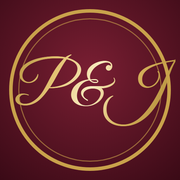
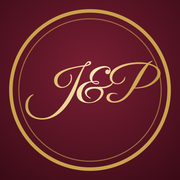
Update invitation content for groom's side (Jai weds Pari)

Changed region(s): [[0.0833, 0.3056, 0.9722, 0.7222], [0.1944, 0.4167, 0.2222, 0.4444]]

diff --git a/index.html b/index.html
@@ -3,7 +3,7 @@
 <head>
   <meta charset="utf-8">
   <meta name="viewport" content="width=device-width, initial-scale=1, viewport-fit=cover">
-  <title>Pari weds Jai | 26.11.2026</title>
+  <title>Jai weds Pari | 26.11.2026</title>
   <meta name="description" content="You are cordially invited to our wedding">
   <meta name="theme-color" content="#4a0e1a">
 
@@ -12,19 +12,19 @@
        https://YOUR-USERNAME.github.io/YOUR-REPO/assets/og-image.jpg  (WhatsApp ignores relative paths)
        and set og:url to the site address. See README.md. -->
   <meta property="og:type" content="website">
-  <meta property="og:site_name" content="Pari weds Jai">
-  <meta property="og:title" content="Pari weds Jai | 26.11.2026">
+  <meta property="og:site_name" content="Jai weds Pari">
+  <meta property="og:title" content="Jai weds Pari | 26.11.2026">
   <meta property="og:description" content="You are cordially invited to our wedding">
-  <meta property="og:image" content="https://nikhilahuja-bright.github.io/PARI-X-JAI-WEDDING-INVITATION/assets/og-image.jpg">
+  <meta property="og:image" content="https://nikhilahuja-bright.github.io/PARI-X-JAI-WEDDING-INVITATION/assets/og-image.jpg?v=2">
   <meta property="og:image:type" content="image/jpeg">
   <meta property="og:image:width" content="1200">
   <meta property="og:image:height" content="630">
-  <meta property="og:image:alt" content="Pari weds Jai — 26th November 2026">
+  <meta property="og:image:alt" content="Jai weds Pari — 26th November 2026">
   <meta property="og:url" content="https://nikhilahuja-bright.github.io/PARI-X-JAI-WEDDING-INVITATION/">
   <meta name="twitter:card" content="summary_large_image">
-  <meta name="twitter:title" content="Pari weds Jai | 26.11.2026">
+  <meta name="twitter:title" content="Jai weds Pari | 26.11.2026">
   <meta name="twitter:description" content="You are cordially invited to our wedding">
-  <meta name="twitter:image" content="https://nikhilahuja-bright.github.io/PARI-X-JAI-WEDDING-INVITATION/assets/og-image.jpg">
+  <meta name="twitter:image" content="https://nikhilahuja-bright.github.io/PARI-X-JAI-WEDDING-INVITATION/assets/og-image.jpg?v=2">
 
   <link rel="icon" type="image/png" sizes="32x32" href="assets/favicon-32.png">
   <link rel="icon" type="image/png" sizes="192x192" href="assets/favicon-192.png">
@@ -122,17 +122,31 @@
       </g>
     </symbol>
 
-    <symbol id="ic-doli" viewBox="0 0 48 48">
+    <symbol id="ic-diya" viewBox="0 0 48 48">
       <g fill="none" stroke="currentColor" stroke-width="2" stroke-linecap="round" stroke-linejoin="round">
-        <path d="M12 21c2-9 22-9 24 0"/>
-        <path d="M24 12V8"/>
-        <path d="M11 21h26v15H11z"/>
-        <path d="M17 36v-8c0-5 14-5 14 0v8" stroke-width="1.5"/>
-        <path d="M2 26h44"/>
-        <path d="M14 36v4M34 36v4"/>
+        <path d="M24 5c4 6 4 11 0 14-4-3-4-8 0-14z"/>
+        <path d="M7 25h34c-2 8-8 12-17 12S9 33 7 25z"/>
+        <path d="M24 37v4M17 43h14"/>
       </g>
-      <path d="M41 5l1 2.5 2.5 1-2.5 1L41 12l-1-2.5-2.5-1 2.5-1zM7 8l.7 1.6 1.6.7-1.6.7L7 12.6l-.7-1.6-1.6-.7 1.6-.7z" fill="currentColor"/>
-      <circle cx="24" cy="6.5" r="1.6" fill="currentColor"/>
+    </symbol>
+
+    <symbol id="ic-cocktail" viewBox="0 0 48 48">
+      <g fill="none" stroke="currentColor" stroke-width="2" stroke-linecap="round" stroke-linejoin="round">
+        <path d="M9 9h30L24 25z"/>
+        <path d="M24 25v15M16 41h16"/>
+        <path d="M31 3l-5 12"/>
+      </g>
+      <circle cx="20" cy="13" r="2" fill="currentColor"/>
+    </symbol>
+
+    <symbol id="ic-sehra" viewBox="0 0 48 48">
+      <g fill="none" stroke="currentColor" stroke-width="2" stroke-linecap="round" stroke-linejoin="round">
+        <path d="M8 29c0-14 32-14 32 0z"/>
+        <path d="M11 23c8-3 18-3 26 0" stroke-width="1.4"/>
+        <path d="M24 17c-2-7 1-11 6-14 0 6-2 10-6 14z"/>
+        <path d="M12 29v10M18 29v13M24 29v14M30 29v13M36 29v10" stroke-width="1.3" stroke-dasharray="2 2.5"/>
+      </g>
+      <circle cx="24" cy="18.5" r="2" fill="currentColor"/>
     </symbol>
 
     <symbol id="ic-calendar" viewBox="0 0 24 24">
@@ -169,8 +183,9 @@
     <svg class="intro-corner br" aria-hidden="true"><use href="#orn-corner"/></svg>
 
     <div class="intro-inner">
-      <p class="eyebrow intro-kicker" data-c="couple"></p>
+      <p class="eyebrow intro-kicker" data-c="intro.kicker"></p>
       <p id="intro-title" class="intro-title foil">You're Invited</p>
+      <p class="mantra intro-kicker" data-c="intro.couple"></p>
 
       <button id="envelope" class="envelope" type="button" aria-label="Open your invitation">
         <span class="env-back" aria-hidden="true"></span>
@@ -195,6 +210,7 @@
       </button>
 
       <p class="intro-hint">Tap to open your invitation</p>
+      <p class="closing-text" data-c="intro.from"></p>
     </div>
   </div>
 
@@ -213,9 +229,9 @@
         <svg class="ganesha a1" role="img" aria-label="Lord Ganesha"><use href="#ic-ganesha"/></svg>
         <p class="mantra a1" data-c="mantra"></p>
         <h1 id="hero-names" class="names">
-          <span class="name foil-script a2" data-c="bride.name"></span>
+          <span class="name foil-script a2" data-c="groom.name"></span>
           <span class="weds a3"><span class="weds-line" aria-hidden="true"></span><span class="weds-word">weds</span><span class="weds-line r" aria-hidden="true"></span></span>
-          <span class="name foil-script a4" data-c="groom.name"></span>
+          <span class="name foil-script a4" data-c="bride.name"></span>
         </h1>
         <svg class="divider a5" aria-hidden="true"><use href="#orn-divider"/></svg>
         <p class="eyebrow a5">Save the Date</p>
@@ -236,17 +252,24 @@
         <p class="lead" data-c="invitation.blessing"></p>
 
         <div class="person">
-          <h2 class="person-name" data-c="bride.name"></h2>
-          <p class="parents"><span data-c="bride.relation"></span> <span data-c="bride.parents"></span></p>
+          <h3 class="venue-name" data-c="invitation.hosts"></h3>
+        </div>
+        <div class="person">
+          <p class="lead" data-c="invitation.request"></p>
+        </div>
+        <div class="person">
+          <h2 class="person-name" data-c="groom.fullName"></h2>
         </div>
         <p class="with"><span>with</span></p>
         <div class="person">
-          <h2 class="person-name" data-c="groom.name"></h2>
-          <p class="parents"><span data-c="groom.relation"></span> <span data-c="groom.parents"></span></p>
+          <h2 class="person-name" data-c="bride.fullName"></h2>
+          <p class="parents" data-c="bride.parents"></p>
         </div>
 
         <svg class="divider dark" aria-hidden="true"><use href="#orn-divider"/></svg>
-        <p class="lead small" data-c="invitation.closing"></p>
+        <h3 class="venue-name" data-c="residence.hosts"></h3>
+        <p class="venue-addr" data-c="residence.address"></p>
+        <p class="venue-addr" id="phones"></p>
       </div>
     </section>
 
@@ -281,8 +304,8 @@
 
     <!-- ===== 6. EVENTS ===== -->
     <section class="sec" aria-labelledby="ev-title">
-      <p class="eyebrow reveal"><span data-c="dateDay"></span> · <span data-c="dateLong"></span></p>
-      <h2 id="ev-title" class="sec-title foil-script reveal">The Celebrations</h2>
+      <p class="eyebrow reveal" data-c="eventsEyebrow"></p>
+      <h2 id="ev-title" class="sec-title foil-script reveal" data-c="eventsTitle"></h2>
       <svg class="divider reveal" aria-hidden="true"><use href="#orn-divider"/></svg>
       <ol class="timeline" id="timeline"></ol>
       <a class="btn reveal" id="calBtn" href="#" target="_blank" rel="noopener">
@@ -316,6 +339,7 @@
       <svg class="lotus-lg reveal" aria-hidden="true"><use href="#orn-lotus"/></svg>
       <h2 id="closing-title" class="sec-title foil-script reveal" data-c="closing.title"></h2>
       <p class="closing-text reveal" data-c="closing.text"></p>
+      <p class="closing-text reveal" data-c="closing.kids"></p>
     </section>
 
     <!-- ===== 9. RSVP ===== -->

diff --git a/assets/script.js b/assets/script.js
@@ -3,60 +3,78 @@
    All names, dates, venue details and links live in CONFIG.
    ========================================================== */
 const CONFIG = {
-  bride: { name: "Pari", relation: "D/o", parents: "Smt. Savita & Sh. Somnath Sapra" },
-  groom: { name: "Jai",  relation: "S/o", parents: "Smt. Kiran & Sh. Sanjay Khurana" },
-  couple: "Pari & Jai",
-  monogram: "P & J",
-  hashtag: "#PariWedsJai",
+  groom: { name: "Jai",  fullName: "Jai Khurana" },
+  bride: { name: "Pari", fullName: "Pari Sapra", parents: "(D/o Smt. Savita & Sh. Somnath Sapra of Rohtak)" },
+  couple: "Jai & Pari",
+  monogram: "J & P",
+  hashtag: "#JaiWedsPari",
   mantra: "|| Shri Ganeshaya Namah ||",
+
+  intro: {
+    kicker: "Wedding Invitation",
+    couple: "Jai Khurana with Pari Sapra",
+    from: "A Cordial Invitation from: Smt. Kiran Khurana & Sh. Sanjay Khurana"
+  },
 
   // Dates
   dateShort: "26 . 11 . 2026",
   dateDay: "Thursday",
   dateLong: "26th November 2026",
-  timeLabel: "From 7:00 PM onwards",
-  weddingStart: "2026-11-26T19:00:00+05:30",   // countdown target + calendar start
+  timeLabel: "Sehra Bandhi at 5:00 PM",
+  weddingStart: "2026-11-26T17:00:00+05:30",   // countdown target + calendar start (Sehra Bandhi)
   weddingEnd:   "2026-11-27T01:00:00+05:30",   // calendar end
 
   invitation: {
-    blessing: "With the blessings of the Almighty and the love of our elders, we cordially invite you and your family to grace the auspicious wedding ceremony of",
-    closing: "Your gracious presence and blessings will make our celebration complete."
+    blessing: "With the blessings of Almighty God & heavenly blessings from Grand Parents Late Smt. Diya Rani & Late Sh. Kharati Lal Khurana",
+    hosts: "Smt. Kiran & Sh. Sanjay Khurana",
+    request: "earnestly seek your benign presence and solicit your blessings on the gracious occasion of the \u201cWEDDING CEREMONY\u201d of their loving son"
   },
 
-  // icon: "barat" | "dinner" | "doli"
+  residence: {
+    hosts: "Smt. Kiran Khurana & Sh. Sanjay Khurana",
+    address: "840/19 Patel Nagar, Near Geeta Vidhya Mandir School, Rohtak - 124001",
+    phones: ["9255198806", "9350054596"]          // shown as tap-to-call links
+  },
+
+  // icon: "jagran" | "cocktail" | "sehra" | "baraat" | "dinner"
+  eventsEyebrow: "21st \u2013 26th November 2026",
+  eventsTitle: "Golden Moments",
   events: [
-    { title: "Reception of Barat", time: "7:00 PM onwards", icon: "barat" },
-    { title: "Dinner",             time: "8:00 PM onwards", icon: "dinner" },
-    { title: "Doli",               time: "Taaron ki Chhaon Mein", note: "under the stars", icon: "doli" }
+    { date: "Sat, 21st Nov 2026", title: "Maa Bhagwati Jagran", place: "At Residence", time: "9:00 PM", icon: "jagran" },
+    { date: "Wed, 25th Nov 2026", title: "Cocktail Party",      place: "At Residence", time: "8:00 PM", icon: "cocktail" },
+    { date: "Thu, 26th Nov 2026", title: "Sehra Bandhi",                               time: "5:00 PM", icon: "sehra" },
+    { date: "Thu, 26th Nov 2026", title: "Departure of Baraat",                        time: "6:00 PM", icon: "baraat" },
+    { date: "Thu, 26th Nov 2026", title: "Dinner",                                     time: "7:00 PM", icon: "dinner" }
   ],
 
   venue: {
     name: "Riyasatt Banquet & Lawn",
-    address: "Near Delhi Road, Bohar, Rohtak, Haryana",
+    address: "Main Masthnath Nagar Road, Near Delhi Road, Bohar, Rohtak, Haryana 124021",
     // Swap these for your exact pin later (e.g. a maps.app.goo.gl link for directionsUrl)
-    mapEmbedUrl: "https://maps.google.com/maps?q=Riyasatt+Banquet+and+Lawn+Bohar+Rohtak&z=15&output=embed",
-    directionsUrl: "https://www.google.com/maps/search/?api=1&query=Riyasatt+Banquet+and+Lawn+Bohar+Rohtak"
+    mapEmbedUrl: "https://maps.google.com/maps?q=Riyasatt+Banquet+%26+Lawn,+Main+Masthnath+Nagar+Road,+Near+Delhi+Road,+Bohar,+Rohtak,+Haryana+124021&z=15&output=embed",
+    directionsUrl: "https://www.google.com/maps/search/?api=1&query=Riyasatt+Banquet+%26+Lawn%2C+Main+Masthnath+Nagar+Road%2C+Near+Delhi+Road%2C+Bohar%2C+Rohtak%2C+Haryana+124021"
   },
 
   calendar: {
-    title: "Pari weds Jai — Wedding Celebration",
-    details: "With the blessings of our elders, we warmly invite you to the wedding of Pari & Jai. Reception of Barat 7:00 PM onwards · Dinner 8:00 PM onwards."
+    title: "Jai weds Pari \u2014 Wedding Ceremony",
+    details: "Wedding ceremony of Jai Khurana with Pari Sapra. Sehra Bandhi 5:00 PM \u00b7 Departure of Baraat 6:00 PM \u00b7 Dinner 7:00 PM."
   },
 
   closing: {
     title: "Awaiting your gracious presence",
-    text: "As two souls become one and two families unite, our joy will be complete only with you beside us — to fill the evening with your love, laughter & blessings."
+    text: "As two souls become one and two families unite, our joy will be complete only with you beside us \u2014 to fill the evening with your love, laughter & blessings.",
+    kids: "Special Invitation From Our Family Shining Stars: Darshita, Darshika, Raghav, Madhav"
   },
 
   rsvp: {
     title: "RSVP",
     subtitle: "With Love & Warm Regards",
-    families: ["Sapra Family", "Budhiraja Family", "Batra Family", "Bajaj Family"]
+    families: ["Khurana Family", "Dhamija Family", "Suri Family"]
   },
 
   compliments: {
     title: "With Best Compliments From",
-    names: ["Kartik Sapra", "Sagar Budhiraja & Jagriti"]
+    names: ["All Relatives & Friends"]
   },
 
   credit: { text: "Magical Moments by Jai Ahuja", logo: "assets/logo.png" },
@@ -81,19 +99,23 @@ const CONFIG = {
       if (typeof v === "string") el.textContent = v;
     });
 
-    const icons = { barat: "#ic-barat", dinner: "#ic-dinner", doli: "#ic-doli" };
+    const icons = { jagran: "#ic-diya", cocktail: "#ic-cocktail", sehra: "#ic-sehra", baraat: "#ic-barat", dinner: "#ic-dinner" };
     $("#timeline").innerHTML = CONFIG.events.map((e, i) => `
       <li class="event reveal" style="transition-delay:${i * 0.08}s">
         <span class="event-icon" aria-hidden="true"><svg><use href="${icons[e.icon] || "#ic-dinner"}"/></svg></span>
+        ${e.date ? `<p class="event-note">${esc(e.date)}</p>` : ""}
         <h3 class="event-title">${esc(e.title)}</h3>
         <p class="event-time">${esc(e.time)}</p>
-        ${e.note ? `<p class="event-note">(${esc(e.note)})</p>` : ""}
+        ${e.place ? `<p class="event-note">${esc(e.place)}</p>` : ""}
       </li>`).join("");
 
     $("#families").innerHTML = CONFIG.rsvp.families
       .map((f, i) => `<li class="reveal" style="transition-delay:${i * 0.1}s">${esc(f)}</li>`).join("");
     $("#compliments").innerHTML = CONFIG.compliments.names
       .map((n, i) => `<li class="reveal" style="transition-delay:${i * 0.12}s"><span class="foil-script">${esc(n)}</span></li>`).join("");
+
+    $("#phones").innerHTML = "M. " + CONFIG.residence.phones
+      .map(n => `<a href="tel:+91${n.replace(/\D/g, "")}">${esc(n)}</a>`).join(", ");
 
     $("#mapFrame").src = CONFIG.venue.mapEmbedUrl;
     $("#mapFrame").title = "Map showing " + CONFIG.venue.name;

diff --git a/assets/style.css b/assets/style.css
@@ -1,5 +1,5 @@
 /* ==========================================================
-   Pari weds Jai — wedding invitation
+   Jai weds Pari — wedding invitation
    Royal maroon · antique gold · ivory
    ========================================================== */
 

diff --git a/README.md b/README.md
@@ -1,4 +1,4 @@
-# Pari weds Jai: Wedding Invitation
+# Jai weds Pari: Wedding Invitation
 
 A one-page wedding invitation built with plain HTML, CSS and JavaScript. There is no build step, and it runs on GitHub Pages.
 
